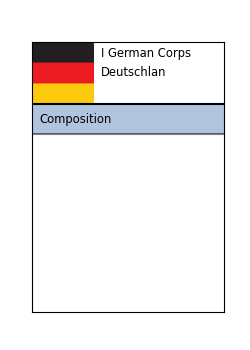
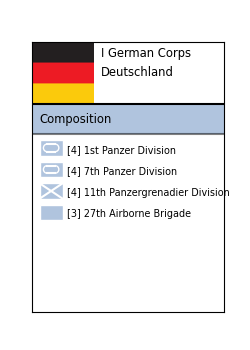
dice probabilities and corps updates

Changed region(s): [[0.14, 0.4, 0.924, 0.6286], [0.644, 0.1714, 0.7, 0.2286]]

diff --git a/breakthrough/corps.py b/breakthrough/corps.py
@@ -6,6 +6,26 @@ from tqdm import tqdm
 import matplotlib.patches as patches
 import os
 
+division = UNIT_SIZES.division
+battallion = UNIT_SIZES.battallion
+brigade = UNIT_SIZES.brigade
+regiment = UNIT_SIZES.regiment
+corps = UNIT_SIZES.corps
+
+infantry = UNIT_TYPES.infantry
+artillery = UNIT_TYPES.artillery
+armor = UNIT_TYPES.armor
+air_defense = UNIT_TYPES.air_defense
+airborne = UNIT_TYPES.airborne
+
+nato = TEAMS.NATO
+pact = TEAMS.PACT
+
+de = COUNTRIES['DE']
+dk = COUNTRIES['DK']
+nl = COUNTRIES['NL']
+uk = COUNTRIES['UK']
+
 corps = [
     Unit(
         name="Landjut Command",
@@ -13,84 +33,110 @@ corps = [
         team=TEAMS.NATO,
         country=COUNTRIES["DK"],
         children=[
-            Unit("Jutland Division", size=UNIT_SIZES.division, type=UNIT_TYPES.infantry),
-            "Armored Division (Armor)"
+            Unit("Jutland Division", division, nato, dk, type=infantry),
+            Unit("33rd Artillery Battalion", battallion, nato, dk, type=artillery),
+            Unit("650th Rocket Artillery Battalion", battallion, nato, dk, type=artillery),
+            Unit("600th Air Defence Regiment", regiment, nato, dk, type=air_defense),
+            Unit("Jutland Battle Group", brigade, nato, dk, type=armor),
+            Unit("1st Infantry Brigade", brigade, nato, dk, type=infantry),
+            Unit("6th Panzergrenadier Division", division, nato, dk, type=infantry),
+            Unit("Territorial Command Schleswig-Holstein", brigade, nato, dk, type=infantry)
         ],
         color="royalblue"
     ),
     Unit(
         name="I Netherlands Corps",
-        size=UNIT_SIZES.corps,
+        size=corps,
         team=TEAMS.NATO,
         country=COUNTRIES["NL"],
-        color="mediumblue"
+        color="mediumblue",
+        children=[
+            Unit("1e Divisie", division, nato, nl, type=infantry),
+            Unit("3rd Panzer Division", division, nato, nl, type=armor),
+            Unit("4e Divisie", division, nato, nl, type=infantry),
+            Unit("5e Divisie", division, nato, nl, type=infantry),
+            Unit("101e Infanteriebrigade", brigade, nato, nl, type=infantry),
+            Unit("1 Corps Artillery", brigade, nato, nl, type=artillery),
+        ]
     ),
     Unit(
         name="I German Corps",
-        size=UNIT_SIZES.corps,
+        size=corps,
         team=TEAMS.NATO,
         country=COUNTRIES["DE"],
-        color="lightsteelblue"
+        color="lightsteelblue",
+        children=[
+            Unit("1st Panzer Division", division, nato, de, type=armor),
+            Unit("7th Panzer Division", division, nato, de, type=armor),
+            Unit("11th Panzergrenadier Division", division, nato, de, type=infantry),
+            Unit("27th Airborne Brigade", brigade, nato, de, type=airborne)
+        ]
     ),
     Unit(
         name="I British Corps",
-        size=UNIT_SIZES.corps,
+        size=corps,
         team=TEAMS.NATO,
         country=COUNTRIES["UK"],
-        color="cornflowerblue"
+        color="cornflowerblue",
+        children=[
+            Unit("1st Armoured Division", division, nato, uk, type=armor),
+            Unit("2nd Infantry Division", division, nato, uk, type=infantry),
+            Unit("3rd Armoured Division", division, nato, uk, type=armor),
+            Unit("4th Armoured Division", division, nato, uk, type=armor),
+        ]
     ),
     Unit(
         name="I Belgian Corps",
-        size=UNIT_SIZES.corps,
+        size=corps,
         team=TEAMS.NATO,
         country=COUNTRIES["DK"],
         color="darkblue"
     ),
     Unit(
         name="III US Corps",
-        size=UNIT_SIZES.corps,
+        size=corps,
         team=TEAMS.NATO,
         country=COUNTRIES["US"],
         color="dodgerblue"
     ),
     Unit(
         name="2nd Guards Tank Army",
-        size=UNIT_SIZES.corps,
+        size=corps,
         team=TEAMS.PACT,
         country=COUNTRIES["USSR"],
         color="red"
     ),
     Unit(
         name="3rd Red Banner Army",
-        size=UNIT_SIZES.corps,
+        size=corps,
         team=TEAMS.PACT,
         country=COUNTRIES["USSR"],
         color="brown"
     ),
     Unit(
         name="Nationale Volksarmee",
-        size=UNIT_SIZES.corps,
+        size=corps,
         team=TEAMS.PACT,
         country=COUNTRIES["DDR"],
         color="indianred"
     ),
     Unit(
         name="Northern Group of Forces",
-        size=UNIT_SIZES.corps,
+        size=corps,
         team=TEAMS.PACT,
         country=COUNTRIES["PL"],
         color="tomato"
     ),
     Unit(
         name="11th Guards Army Baltic Command",
-        size=UNIT_SIZES.corps,
+        size=corps,
         team=TEAMS.PACT,
         country=COUNTRIES["USSR"],
         color="firebrick"
     ),
     Unit(
         name="1st Czechoslovak People's Army",
-        size=UNIT_SIZES.corps,
+        size=corps,
         team=TEAMS.PACT,
         country=COUNTRIES["CZ"],
         color="salmon"
@@ -143,34 +189,30 @@ for unit in gen:
 
     for i, child in enumerate(unit.children):
         rgb = [x / 255 for x in getattr(COLORS, unit.team.name).value]
-        size = 0
-        for s in UNIT_SIZES:
-            if s.name in child.lower():
-                size = s.value
-                break
+        size = child.size.value
         ax.text(
             .45,
-            2.1 - .3 * i,
+            2.1 - .28 * i,
             f"[{size}] {child}",
             ha='left',
             va='center',
-            fontsize="small"
+            fontsize="x-small"
         )
         ax.add_patch(patches.Rectangle(
-            (.1, 2.025 - .3 * i),
+            (.1, 2.025 - .28 * i),
             .3,
             .2,
             edgecolor="w",
             facecolor=unit.color,
         ))
-        if "Infantry" in child:
-            plt.plot([.1, .4], [2.025 - .3 * i, 2.225 - .3 * i], color="w")
-            plt.plot([.1, .4], [2.225 - .3 * i, 2.025 - .3 * i], color="w")
-        elif "Armor" in child:
-            plt.plot([.2, .3], [2.075 - .3 * i, 2.075 - .3 * i], color="w")
-            plt.plot([.2, .3], [2.175 - .3 * i, 2.175 - .3 * i], color="w")
+        if child.type == infantry:
+            plt.plot([.1, .4], [2.025 - .28 * i, 2.225 - .28 * i], color="w")
+            plt.plot([.1, .4], [2.225 - .28 * i, 2.025 - .28 * i], color="w")
+        elif child.type == armor:
+            plt.plot([.2, .3], [2.075 - .28 * i, 2.075 - .28 * i], color="w")
+            plt.plot([.2, .3], [2.175 - .28 * i, 2.175 - .28 * i], color="w")
             ax.add_patch(patches.Arc(
-                (.2, 2.125 - .3 * i),
+                (.2, 2.125 - .28 * i),
                 .1,
                 .1,
                 theta1=90,
@@ -178,7 +220,7 @@ for unit in gen:
                 color="w"
             ))
             ax.add_patch(patches.Arc(
-                (.3, 2.125 - .3 * i),
+                (.3, 2.125 - .28 * i),
                 .1,
                 .1,
                 theta1=270,

diff --git a/breakthrough/balance.py b/breakthrough/balance.py
@@ -1,0 +1,51 @@
+import itertools
+import numpy as np
+import random
+from tqdm import tqdm
+
+restrictions = {
+    "armor": ["inf", "mech", "reserve", "signal", "artillery"],
+    "inf": ["reserve", "anti-tank", "recon", "signal"],
+    "mech": ["inf", "reserve", "signal", "helicopter", "artillery"],
+    "reserve": ["signal", "recon"],
+    "anti-tank": ["armor", "mech"],
+    "recon": ["signal"],
+    "helicopter": ["armor", "anti-tank", "artillery"],
+    # "signal": [],
+    "artillery": ["inf", "reserve", "recon"],
+    # "anti-air": ["fighter", "bomber"],
+    # "fighter": ["helicopter", "bomber"],
+    # "bomber": ["armor", "inf", "mech", "reserve", "anti-tank", "recon", "signal", "artillery"],
+}
+
+dice = {key: np.random.randint(1, 7, 6) for key in restrictions.keys()}
+
+print(dice)
+changes = 0
+
+for i in tqdm(range(100000)):
+    u1, u2 = random.sample(dice.keys(), 2)
+    u1_should_win = u2 in restrictions[u1]
+    if not u1_should_win:
+        continue
+    u1_wins = np.random.choice(dice[u1]) > np.random.choice(dice[u1])
+    if u1_wins:
+        dice[u1][random.choices(range(6), k=1, weights=dice[u1])] += 1
+        changes += 1
+
+print(changes)
+print(dice)
+
+# nsims = 10000
+# for u1, u2, in itertools.combinations(dice.keys(), 2):
+#     win_perc = sum((np.random.choice(dice[u1])) > np.random.choice(dice[u2]) for x in range(nsims))/nsims
+#     print(u1, u2, win_perc)
+
+highest = max(max(x) for x in dice.values())
+factor = 1
+for i in range(10):
+    if i**6 > highest:
+        break
+    factor = i
+for name, die in dice.items():
+    print(name, sorted([max(1, int(x)) for x in np.log(die) / np.log([factor for i in range(len(die))])]))

diff --git a/breakthrough/units.py b/breakthrough/units.py
@@ -3,14 +3,14 @@ from enum import IntEnum
 
 
 class UNIT_SIZES(IntEnum):
-    corps = 4
-    division = 3
-    brigade = 2
-    regiment = 1
-    battallion = 0
-    battery = 0
-    company = 0
-    administrative = 4
+    corps = 50
+    division = 4
+    brigade = 3
+    regiment = 2
+    battallion = 1
+    battery = 1
+    company = 1
+    administrative = 100
 
 
 class UNIT_TYPES(IntEnum):
@@ -47,10 +47,10 @@ class Unit:
         self.team = team
         assert country in COUNTRIES.values(), f"Country must be in: {COUNTRIES.keys()}"
         self.country = country
-        assert len(children) <= self.size
+        assert len(children) <= self.size.value, f"{len(children)} {self.size.value}"
         self.children = children
         self.color = color
         self.type = type
 
     def __str__(self):
-        return f"{self.name} - {self.size} - {self.team} - [{self.size + 1}]"
+        return self.name

diff --git a/breakthrough/constants.py b/breakthrough/constants.py
@@ -22,7 +22,7 @@ COUNTRIES = {
     "UK": country("UK", "United Kingdom"),
     "NL": country("NL", "Nederland"),
     "PL": country("PL", "Poland"),
-    "DE": country("DE", "Deutschlan"),
+    "DE": country("DE", "Deutschland"),
     "DDR": country("DDR", "Ost Deutchland"),
     "BE": country("BE", "Belgium"),
     "CZ": country("CZ", "Czechoslovakia"),

diff --git a/RULES.md b/RULES.md
@@ -1,0 +1,18 @@
+## Strategy
+
+Unit types:
+
+|Type|Defeats|
+|---|---|
+|armor|infantry, mechanized, reserve, signal, artillery|
+|infantry|reserve, anti-tank, recon, signal|
+|mechanized infantry|infantry, reserve, signal, helicopter, artillery|
+|reserve|signal, recon|
+|anti-tank|armor, mechanized|
+|recon|signal|
+|helicopter|armor, anti-tank|
+|signal company||
+|artillery|infantry, reserve, recon|
+|anti-air|fighter, bomber|
+|fighter|helicopter, bomber|
+|bomber|armor, infantry, mechanized, reserve, anti-tank, recon, signal, artillery|
